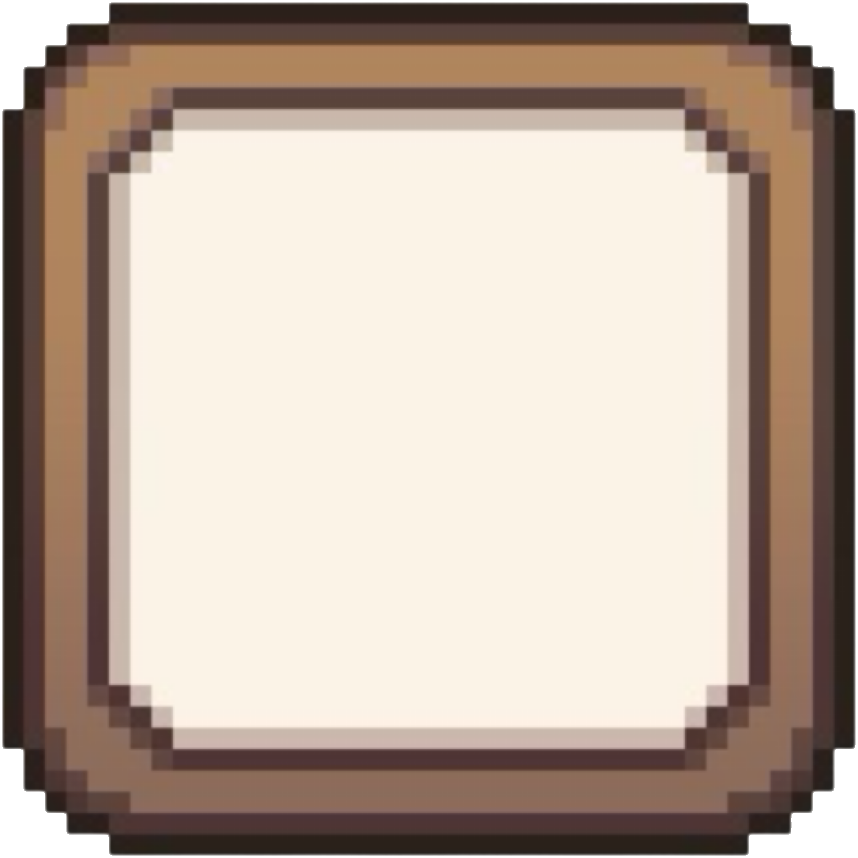
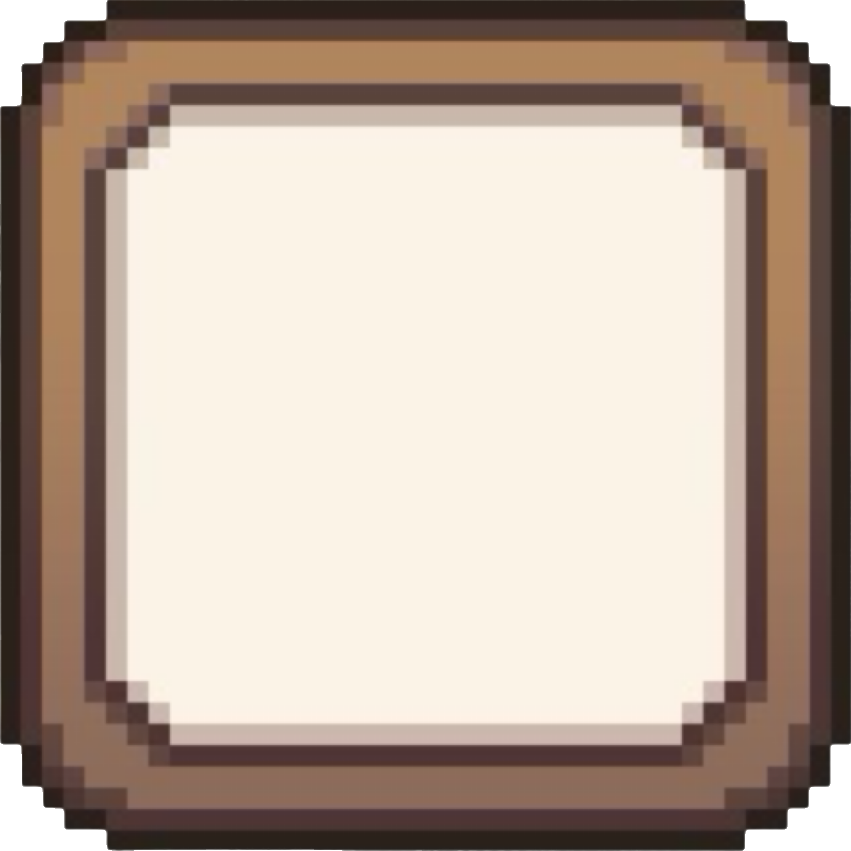
feat: 修复PWA页面跳转闪烁问题

diff --git a/web/sdv-skin.css b/web/sdv-skin.css
@@ -365,7 +365,7 @@ html[data-theme="sdv"] .app-tile .app-label{
 html[data-theme="sdv"] .widget-anniversary,
 html[data-theme="sdv"] .widget-board{
   border: 14px solid transparent;
-  border-image: url("assets/sdv/frame_wood.png") 130 fill / 14px / 0 stretch;
+  border-image: url("assets/sdv/frame_wood.png") 128 fill / 14px / 0 stretch;
   border-radius: 0;
   box-shadow: 5px 5px 0 rgba(44,35,28,.22);
   background: none;
@@ -437,7 +437,7 @@ html[data-theme="sdv"] .setting-group,
 html[data-theme="sdv"] .settings-card{
   background: none;
   border: 18px solid transparent;
-  border-image: url("assets/sdv/frame_wood.png") 130 fill / 18px / 0 stretch;
+  border-image: url("assets/sdv/frame_wood.png") 128 fill / 18px / 0 stretch;
   border-radius: 0;
   box-shadow: 4px 4px 0 rgba(60,42,32,.16);
   -webkit-backdrop-filter: none; backdrop-filter: none;

diff --git a/web/sw.js b/web/sw.js
@@ -2,7 +2,7 @@
    IMPORTANT: bump CACHE on every front-end change, or installed clients keep the
    old shell (the precached index.html won't refresh until the SW reinstalls). */
 const AI_NAME = "Claude";          // push-title fallback; keep in sync with index.html CONFIG.AI_NAME
-const CACHE = "companion-v71";
+const CACHE = "companion-v72";
 const PRECACHE = [
   "./index.html",
   "./memory.html",
